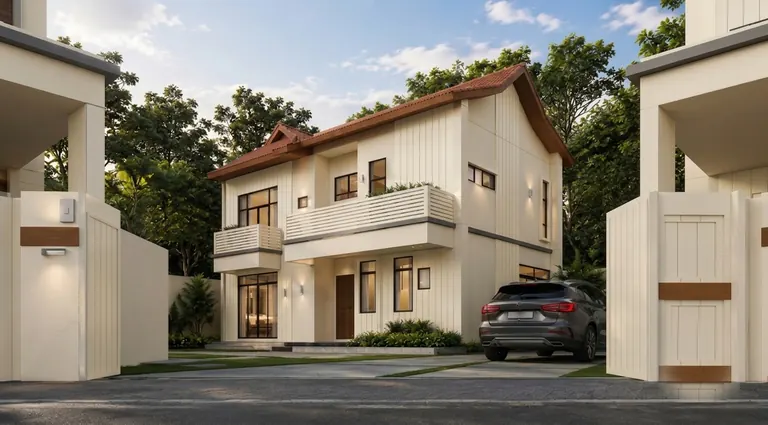
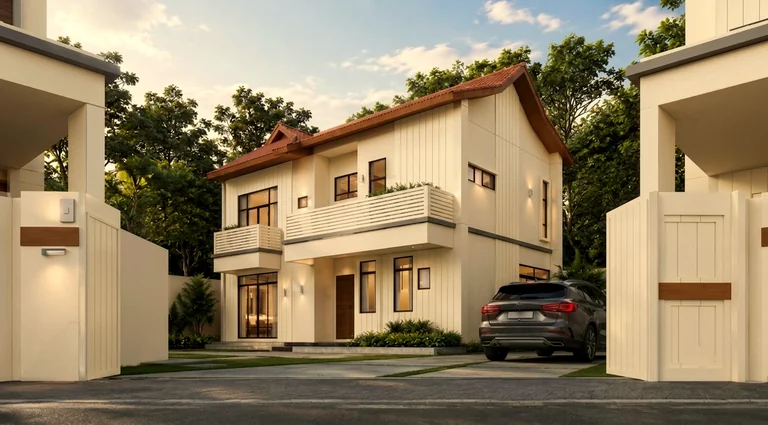
Bungalow render-band: swap to the tighter golden-hour framing
Use the new nl57xd render of the bungalow (same house, tighter and more
striking than the previous wide shot). Gemini sparkle removed with a
masked content-aware inpaint on the gate panel (full 1389x768 kept, no
crop, no seam), warm-graded to match the rest of the golden-hour set.
Regenerated the 768/1080/full responsive variants and bumped the cache.

diff --git a/index.html b/index.html
@@ -527,7 +527,7 @@
     </div>
 
     <figure class="render-band" data-reveal>
-      <img src="assets/hero-3.webp?v=5" srcset="assets/hero-3-768.webp?v=5 768w, assets/hero-3-1080.webp?v=5 1080w, assets/hero-3.webp?v=5 1389w" sizes="(min-width: 1200px) 1100px, 100vw" width="1389" height="768" alt="A Panthera Bertam bungalow at golden hour, artist's impression" loading="lazy">
+      <img src="assets/hero-3.webp?v=6" srcset="assets/hero-3-768.webp?v=6 768w, assets/hero-3-1080.webp?v=6 1080w, assets/hero-3.webp?v=6 1389w" sizes="(min-width: 1200px) 1100px, 100vw" width="1389" height="768" alt="A Panthera Bertam bungalow at golden hour, artist's impression" loading="lazy">
     </figure>
 
     <article class="product product--flip" data-reveal>
